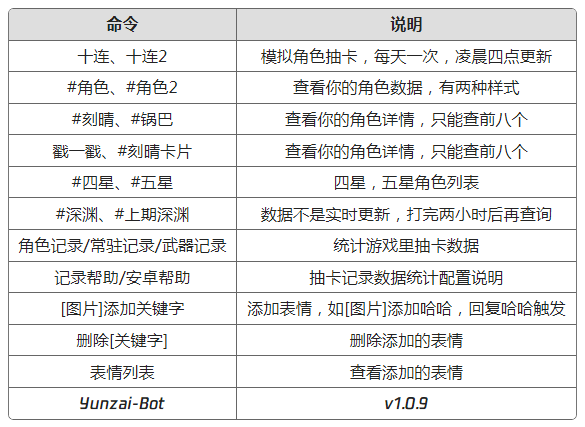
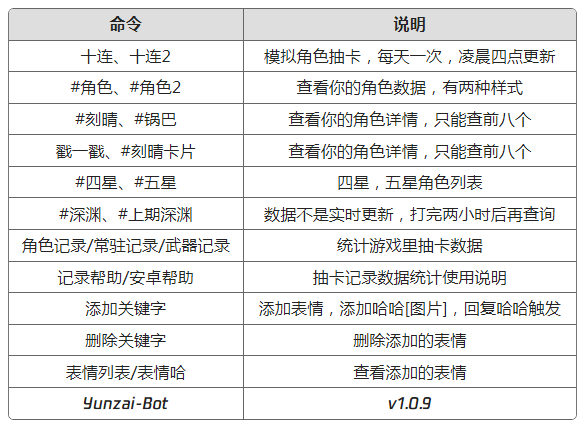
@机器人查询不用#号

diff --git a/lib/dealMsg.js b/lib/dealMsg.js
@@ -38,7 +38,7 @@ async function dealMsg(e) {
   for (let val of e.message) {
     switch (val.type) {
       case "text":
-        val.text = val.text.replace("＃", "#");
+        val.text = val.text.replaceAll(/＃|井/g, "#");
         e.msg = val.text.trim();
         break;
       case "image":
@@ -65,6 +65,11 @@ async function dealMsg(e) {
   }
 
   a: for (let i in command) {
+    let msg = e.msg;
+    if (i == "mysInfo" && e.at && e.at == BotConfig.account.qq) {
+      e.msg = "#" + e.msg.replace("#", "");
+    }
+
     //禁用功能
     if (e.groupConfig.disable && e.groupConfig.disable.length > 0) {
       if (e.groupConfig.disable.includes(i)) {
@@ -101,6 +106,10 @@ async function dealMsg(e) {
           }
         }
       }
+    }
+
+    if (i == "mysInfo" && e.at && e.at == BotConfig.account.qq) {
+      e.msg = msg;
     }
   }
 }
@@ -161,10 +170,10 @@ async function dealGroupNotice(e) {
     e.groupConfig = groupConfig.default;
   }
 
-  e.reply = (msg)=>{
+  e.reply = (msg) => {
     e.group.sendMsg(msg);
-  }
-  
+  };
+
   switch (e.sub_type) {
     case "poke":
       dealPoke(e);

diff --git a/config/genshin/roleId.js b/config/genshin/roleId.js
@@ -28,7 +28,7 @@ let roleId = {
   10000038: ["阿贝多","可莉哥哥","升降机","升降台","电梯","白垩之子","贝爷","白垩","阿贝少","花呗多"],
   10000039: ["迪奥娜","迪欧娜","dio","dio娜","冰猫","猫猫","猫娘","喵喵",],
   10000041: ["莫娜","穷鬼","穷","莫纳","占星术士","占星师","讨龙真君","半部讨龙真君",],
-  10000042: ["刻晴","刻情","氪晴","刻师傅","刻师父","牛杂","牛杂师傅","斩尽牛杂","免疫","免疫免疫","屁斜剑法","玉衡星",],
+  10000042: ["刻晴","刻情","氪晴","刻师傅","刻师父","牛杂","牛杂师傅","斩尽牛杂","免疫","免疫免疫","屁斜剑法","玉衡星","阿晴"],
   10000043: ["砂糖", "雷莹术士", "雷萤术士", "雷荧术士"],
   10000044: ["辛焱", "辛炎", "黑妹"],
   10000045: ["罗莎莉亚", "罗莎莉娅", "白色史莱姆", "白史莱姆", "修女"],

diff --git a/lib/app/face.js b/lib/app/face.js
@@ -145,7 +145,7 @@ async function get(e) {
   var dimensions = sizeOf(`.${img}`);
   let tmp = dimensions.width / dimensions.height;
 
-  if (dimensions.height > 150 && ((tmp > 0.7 && tmp < 1.3) || tmp > 2.5)) {
+  if (dimensions.height > 150 && ((tmp > 0.6 && tmp < 1.4) || tmp > 2.5)) {
     msg = segment.image(`file:///${_path}${img}`);
     msg.asface = true;
     e.reply(msg);
@@ -300,9 +300,9 @@ async function listFuzzy(e) {
 
   setGroupId(e);
 
-  e.msg = e.msg.replace(/#|表情|列表/g, "");
+  let msg = e.msg.replace(/#|表情|列表/g, "");
 
-  if (!e.msg) {
+  if (!msg) {
     return true;
   }
 
@@ -324,7 +324,7 @@ async function listFuzzy(e) {
   let faceArr = [];
   for (let val of face) {
     let tmp = val.split(".")[0];
-    if (!val.includes(e.tmp)) {
+    if (!tmp.includes(msg)) {
       continue;
     }
     tmp = fs.statSync(path + val);

diff --git a/resources/help/help.html b/resources/help/help.html
@@ -100,18 +100,18 @@
         </tr>
         <tr>
           <td>记录帮助/安卓帮助</td>
-          <td>抽卡记录数据统计配置说明</td>
+          <td>抽卡记录数据统计使用说明</td>
         </tr>
         <tr>
-          <td>[图片]添加关键字</td>
-          <td>添加表情，如[图片]添加哈哈，回复哈哈触发</td>
+          <td>添加关键字</td>
+          <td>添加表情，添加哈哈[图片]，回复哈哈触发</td>
         </tr>
         <tr>
-          <td>删除[关键字]</td>
+          <td>删除关键字</td>
           <td>删除添加的表情</td>
         </tr>
         <tr>
-          <td>表情列表</td>
+          <td>表情列表/表情哈</td>
           <td>查看添加的表情</td>
         </tr>
         <tr>

diff --git a/lib/render.js b/lib/render.js
@@ -57,11 +57,13 @@ async function render(app, type, data, imgType = "jpeg") {
     Bot.logger.mark(`图片生成 ${type}:${responseTime}ms 次数:${renderNum}`);
   } catch (error) {
     Bot.logger.error(`图片失败:${type}`);
+    //重启浏览器
+    browser = "";
     return false;
   }
 
   if (!base64) {
-    Bot.logger.error(`图片失败:${type}`);
+    Bot.logger.error(`图片生成为空:${type}`);
     return false;
   }
 

diff --git a/lib/app/mysInfo.js b/lib/app/mysInfo.js
@@ -1310,6 +1310,7 @@ async function mysApi(e, uid, type, data = {}) {
     return false;
   }
   if (!response.ok) {
+    Bot.logger.error(response);
     return false;
   }
   const res = await response.json();
